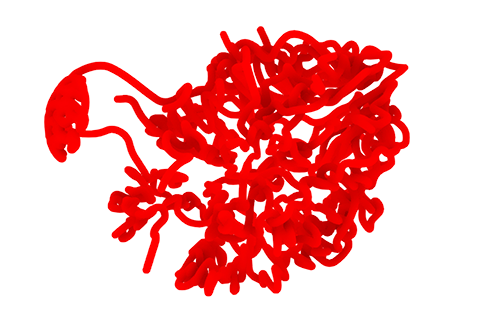
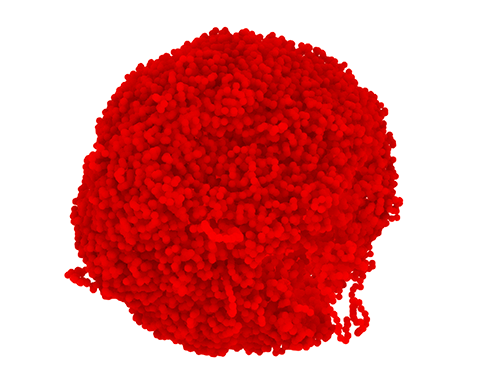
chore: change the default model for minimal to stevens
also reverted back to being really 'minimal'

diff --git a/editor/example/json-spec/spatial-layout.ts b/editor/example/json-spec/spatial-layout.ts
@@ -9,7 +9,7 @@ export const EX_SPEC_SPATIAL_MINIMAL: GoslingSpec = {
                 type: 'spatial',
                 model: {
                     type: 'csv',
-                    url: 'https://raw.githubusercontent.com/dvdkouril/chromospace-sample-data/main/gosling-3d/yeast_model.csv',
+                    url: 'https://raw.githubusercontent.com/dvdkouril/chromospace-sample-data/refs/heads/main/gosling-3d/stevens-2017/full-model.csv',
                     xyz: ['x', 'y', 'z'],
                     chromosome: 'chr',
                     position: 'coord'
@@ -17,12 +17,6 @@ export const EX_SPEC_SPATIAL_MINIMAL: GoslingSpec = {
             },
             tracks: [
                 {
-                    color: { field: 'coord', type: 'quantitative' },
-                    data: {
-                        type: 'csv',
-                        url: 'https://gist.githubusercontent.com/sehilyi/29d1cfed56da3ed37370f31a508c8024/raw/9ab733bff25c4c539d86451dfb9d03d4e241d1ad/yeast_model.values.csv',
-                        genomicFields: ['position']
-                    },
                     width: 500,
                     height: 500
                 }
